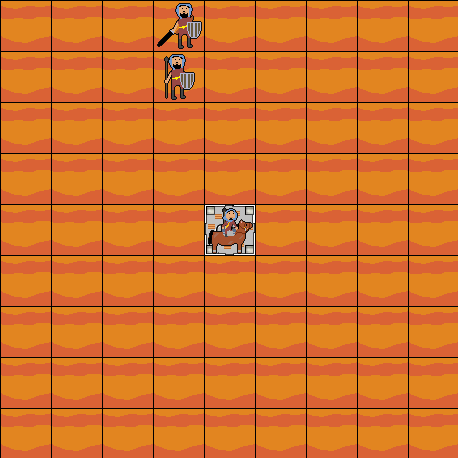
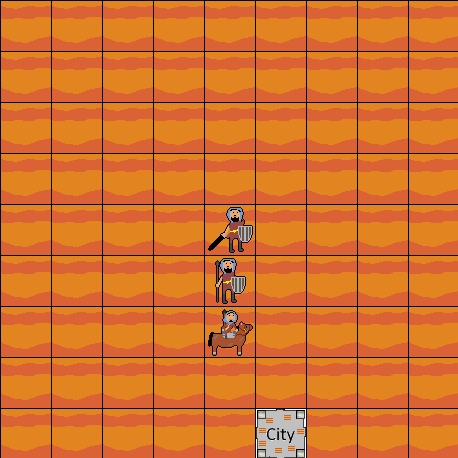
Version 1.0

Changed region(s): [[0.4279, 0.4279, 0.5808, 0.7948], [0.3362, 0.0, 0.4585, 0.214], [0.5502, 0.8865, 0.6725, 1.0]]

diff --git a/ReadMe.md b/ReadMe.md
@@ -1,0 +1,4 @@
+Version 1.0
+- One player controls 3 units
+- Move limits
+- Cities, map generation
